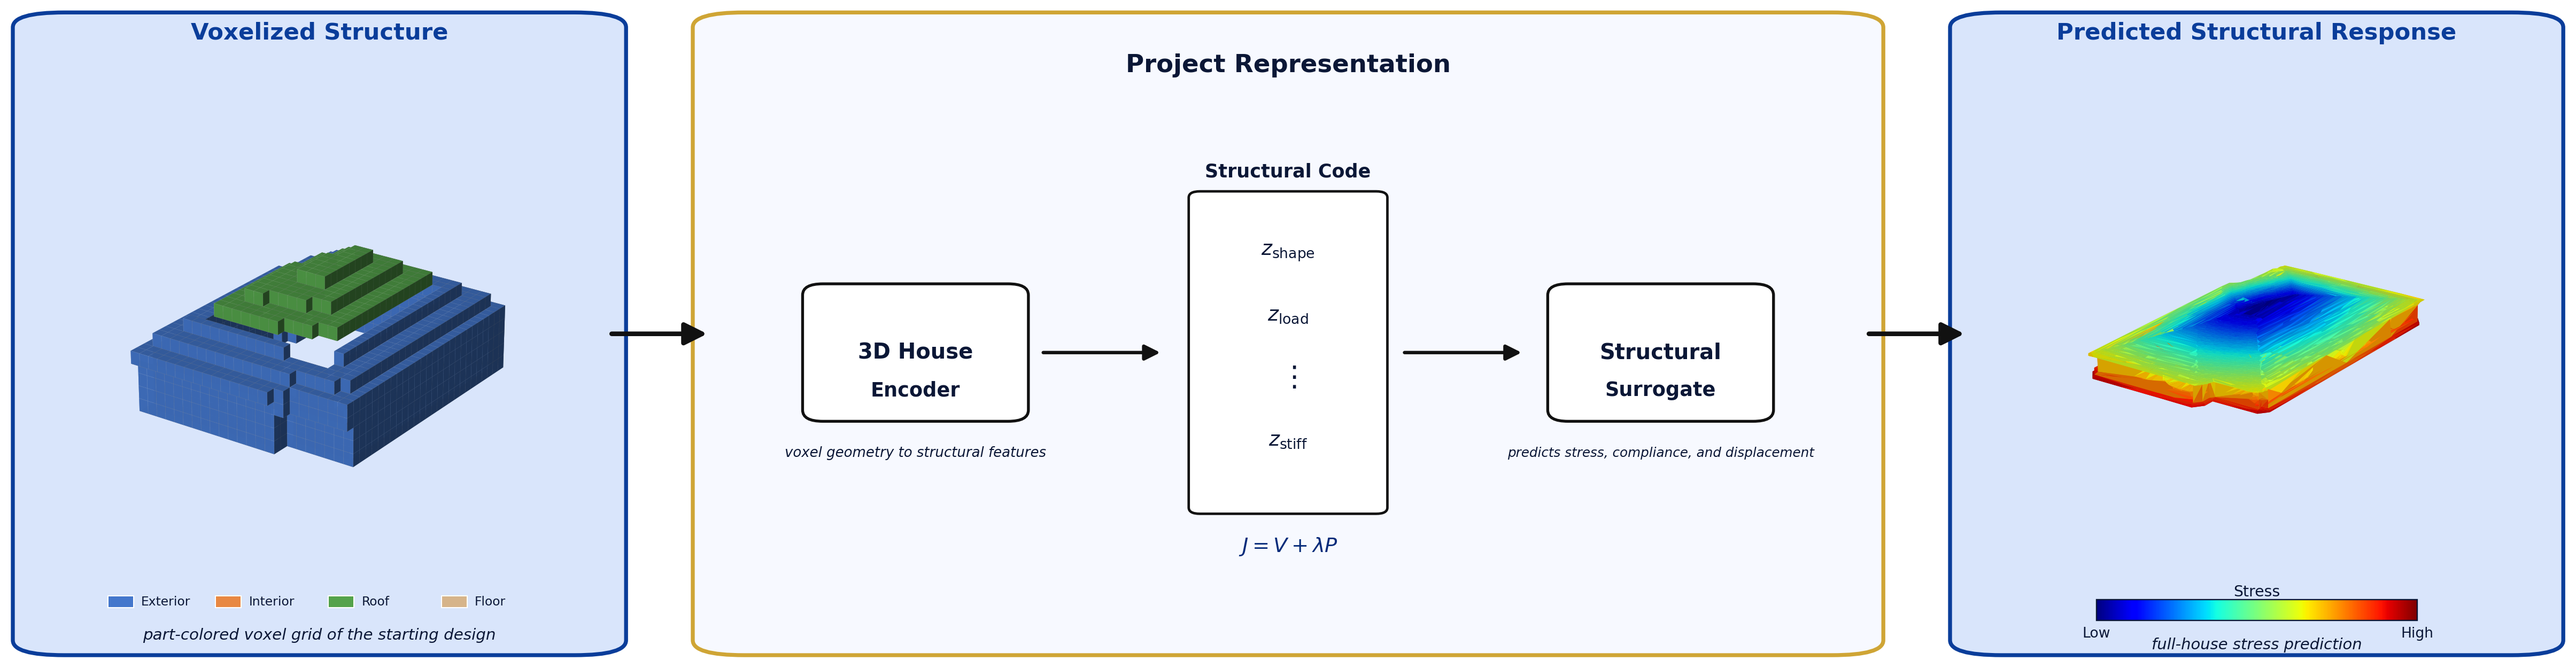
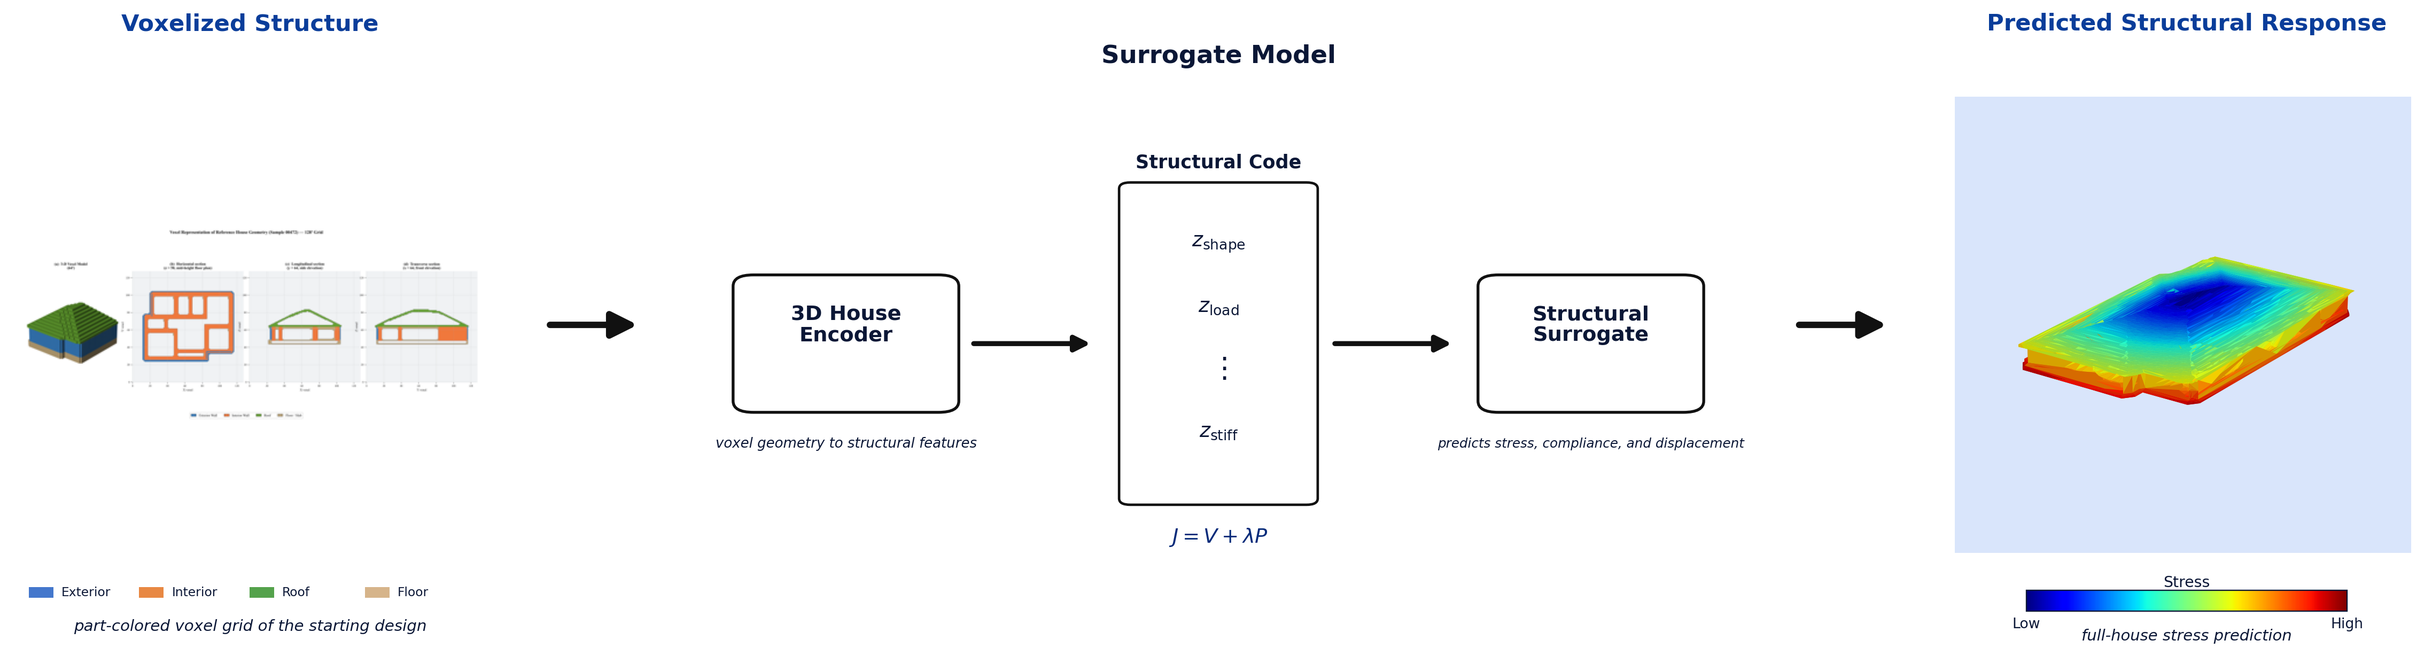
problem framing: use repo voxel image and clean layout

diff --git a/generate_problem_framing.py b/generate_problem_framing.py
@@ -8,6 +8,7 @@ import matplotlib.patches as mpatches
 import matplotlib.pyplot as plt
 import numpy as np
 import trimesh
+from PIL import Image
 from matplotlib.patches import Circle, FancyArrowPatch, FancyBboxPatch, Polygon
 from mpl_toolkits.mplot3d.art3d import Poly3DCollection
 from pathlib import Path
@@ -244,17 +245,18 @@ left = (0.015, 0.08, 0.215, 0.84)
 mid = (0.280, 0.08, 0.440, 0.84)
 right = (0.770, 0.08, 0.215, 0.84)
 
-add_card(fig, left, LBLUE, BLUE, zorder=0)
-add_card(fig, mid, CARD, GOLD, zorder=0)
-add_card(fig, right, LBLUE, BLUE, zorder=0)
+# keep the background clean like the reference figure
 
-add_arrow(fig, (0.235, 0.50), (0.275, 0.50))
-add_arrow(fig, (0.725, 0.50), (0.765, 0.50))
+add_arrow(fig, (0.238, 0.50), (0.275, 0.50), lw=3.6, scale=30)
+add_arrow(fig, (0.725, 0.50), (0.762, 0.50), lw=3.6, scale=30)
 
 
 # ── Left: actual voxelized structure ─────────────────────────────────────────
-ax_left = fig.add_axes([0.032, 0.18, 0.178, 0.64], projection="3d")
-render_voxelized_house(ax_left, "figures/screenshot_stls/REF_original_colored.ply")
+ax_left = fig.add_axes([0.030, 0.18, 0.182, 0.64])
+ax_left.set_axis_off()
+voxel_img = Image.open("thumb_voxel_house.png")
+ax_left.imshow(voxel_img)
+ax_left.set_aspect("equal")
 
 fig.text(0.1225, 0.905, "Voxelized Structure",
          ha="center", va="center", fontsize=13, fontweight="bold", color=BLUE)
@@ -262,7 +264,7 @@ fig.text(0.1225, 0.095, "part-colored voxel grid of the starting design",
          ha="center", va="center", fontsize=8.8, color=DARK, fontstyle="italic")
 
 legend_y = 0.132
-legend_x = [0.040, 0.082, 0.126, 0.170]
+legend_x = [0.036, 0.079, 0.122, 0.167]
 legend_colors = [WALL, INTERIOR, ROOF, SLAB]
 legend_labels = ["Exterior", "Interior", "Roof", "Floor"]
 for x0, c0, txt in zip(legend_x, legend_colors, legend_labels):
@@ -279,7 +281,7 @@ ax_mid.set_xlim(0, 1)
 ax_mid.set_ylim(0, 1)
 ax_mid.set_axis_off()
 
-ax_mid.text(0.50, 0.93, "Project Representation",
+ax_mid.text(0.50, 0.93, "Surrogate Model",
             ha="center", va="center", fontsize=14, fontweight="bold", color=DARK)
 
 # simple reference-style flow
@@ -287,15 +289,13 @@ enc_box = FancyBboxPatch((0.08, 0.37), 0.18, 0.20,
                          boxstyle="round,pad=0.010,rounding_size=0.018",
                          facecolor=WHITE, edgecolor=BLACK, linewidth=1.6)
 ax_mid.add_patch(enc_box)
-ax_mid.text(0.17, 0.47, "3D House",
-            ha="center", va="center", fontsize=12.0, color=DARK, fontweight="bold")
-ax_mid.text(0.17, 0.41, "Encoder",
-            ha="center", va="center", fontsize=11.0, color=DARK, fontweight="bold")
+ax_mid.text(0.17, 0.50, "3D House\nEncoder",
+            ha="center", va="center", fontsize=11.5, color=DARK, fontweight="bold", linespacing=1.1)
 ax_mid.text(0.17, 0.31, "voxel geometry to structural features",
             ha="center", va="center", fontsize=7.8, color=DARK, fontstyle="italic")
 
 ax_mid.add_patch(FancyArrowPatch((0.28, 0.47), (0.39, 0.47), arrowstyle="-|>",
-                                 mutation_scale=18, color=BLACK, lw=1.9))
+                                 mutation_scale=18, color=BLACK, lw=2.8))
 
 vec_box = FancyBboxPatch((0.42, 0.22), 0.16, 0.50,
                          boxstyle="round,pad=0.008,rounding_size=0.010",
@@ -311,16 +311,14 @@ ax_mid.text(0.50, 0.16, r"$J = V + \lambda P$",
             ha="center", va="center", fontsize=11.5, color=NAVY, fontweight="bold")
 
 ax_mid.add_patch(FancyArrowPatch((0.60, 0.47), (0.71, 0.47), arrowstyle="-|>",
-                                 mutation_scale=18, color=BLACK, lw=1.9))
+                                 mutation_scale=18, color=BLACK, lw=2.8))
 
 dec_box = FancyBboxPatch((0.74, 0.37), 0.18, 0.20,
                          boxstyle="round,pad=0.010,rounding_size=0.018",
                          facecolor=WHITE, edgecolor=BLACK, linewidth=1.6)
 ax_mid.add_patch(dec_box)
-ax_mid.text(0.83, 0.47, "Structural",
-            ha="center", va="center", fontsize=12.0, color=DARK, fontweight="bold")
-ax_mid.text(0.83, 0.41, "Surrogate",
-            ha="center", va="center", fontsize=11.0, color=DARK, fontweight="bold")
+ax_mid.text(0.83, 0.50, "Structural\nSurrogate",
+            ha="center", va="center", fontsize=11.5, color=DARK, fontweight="bold", linespacing=1.1)
 ax_mid.text(0.83, 0.31, "predicts stress, compliance, and displacement",
             ha="center", va="center", fontsize=7.4, color=DARK, fontstyle="italic")
 
